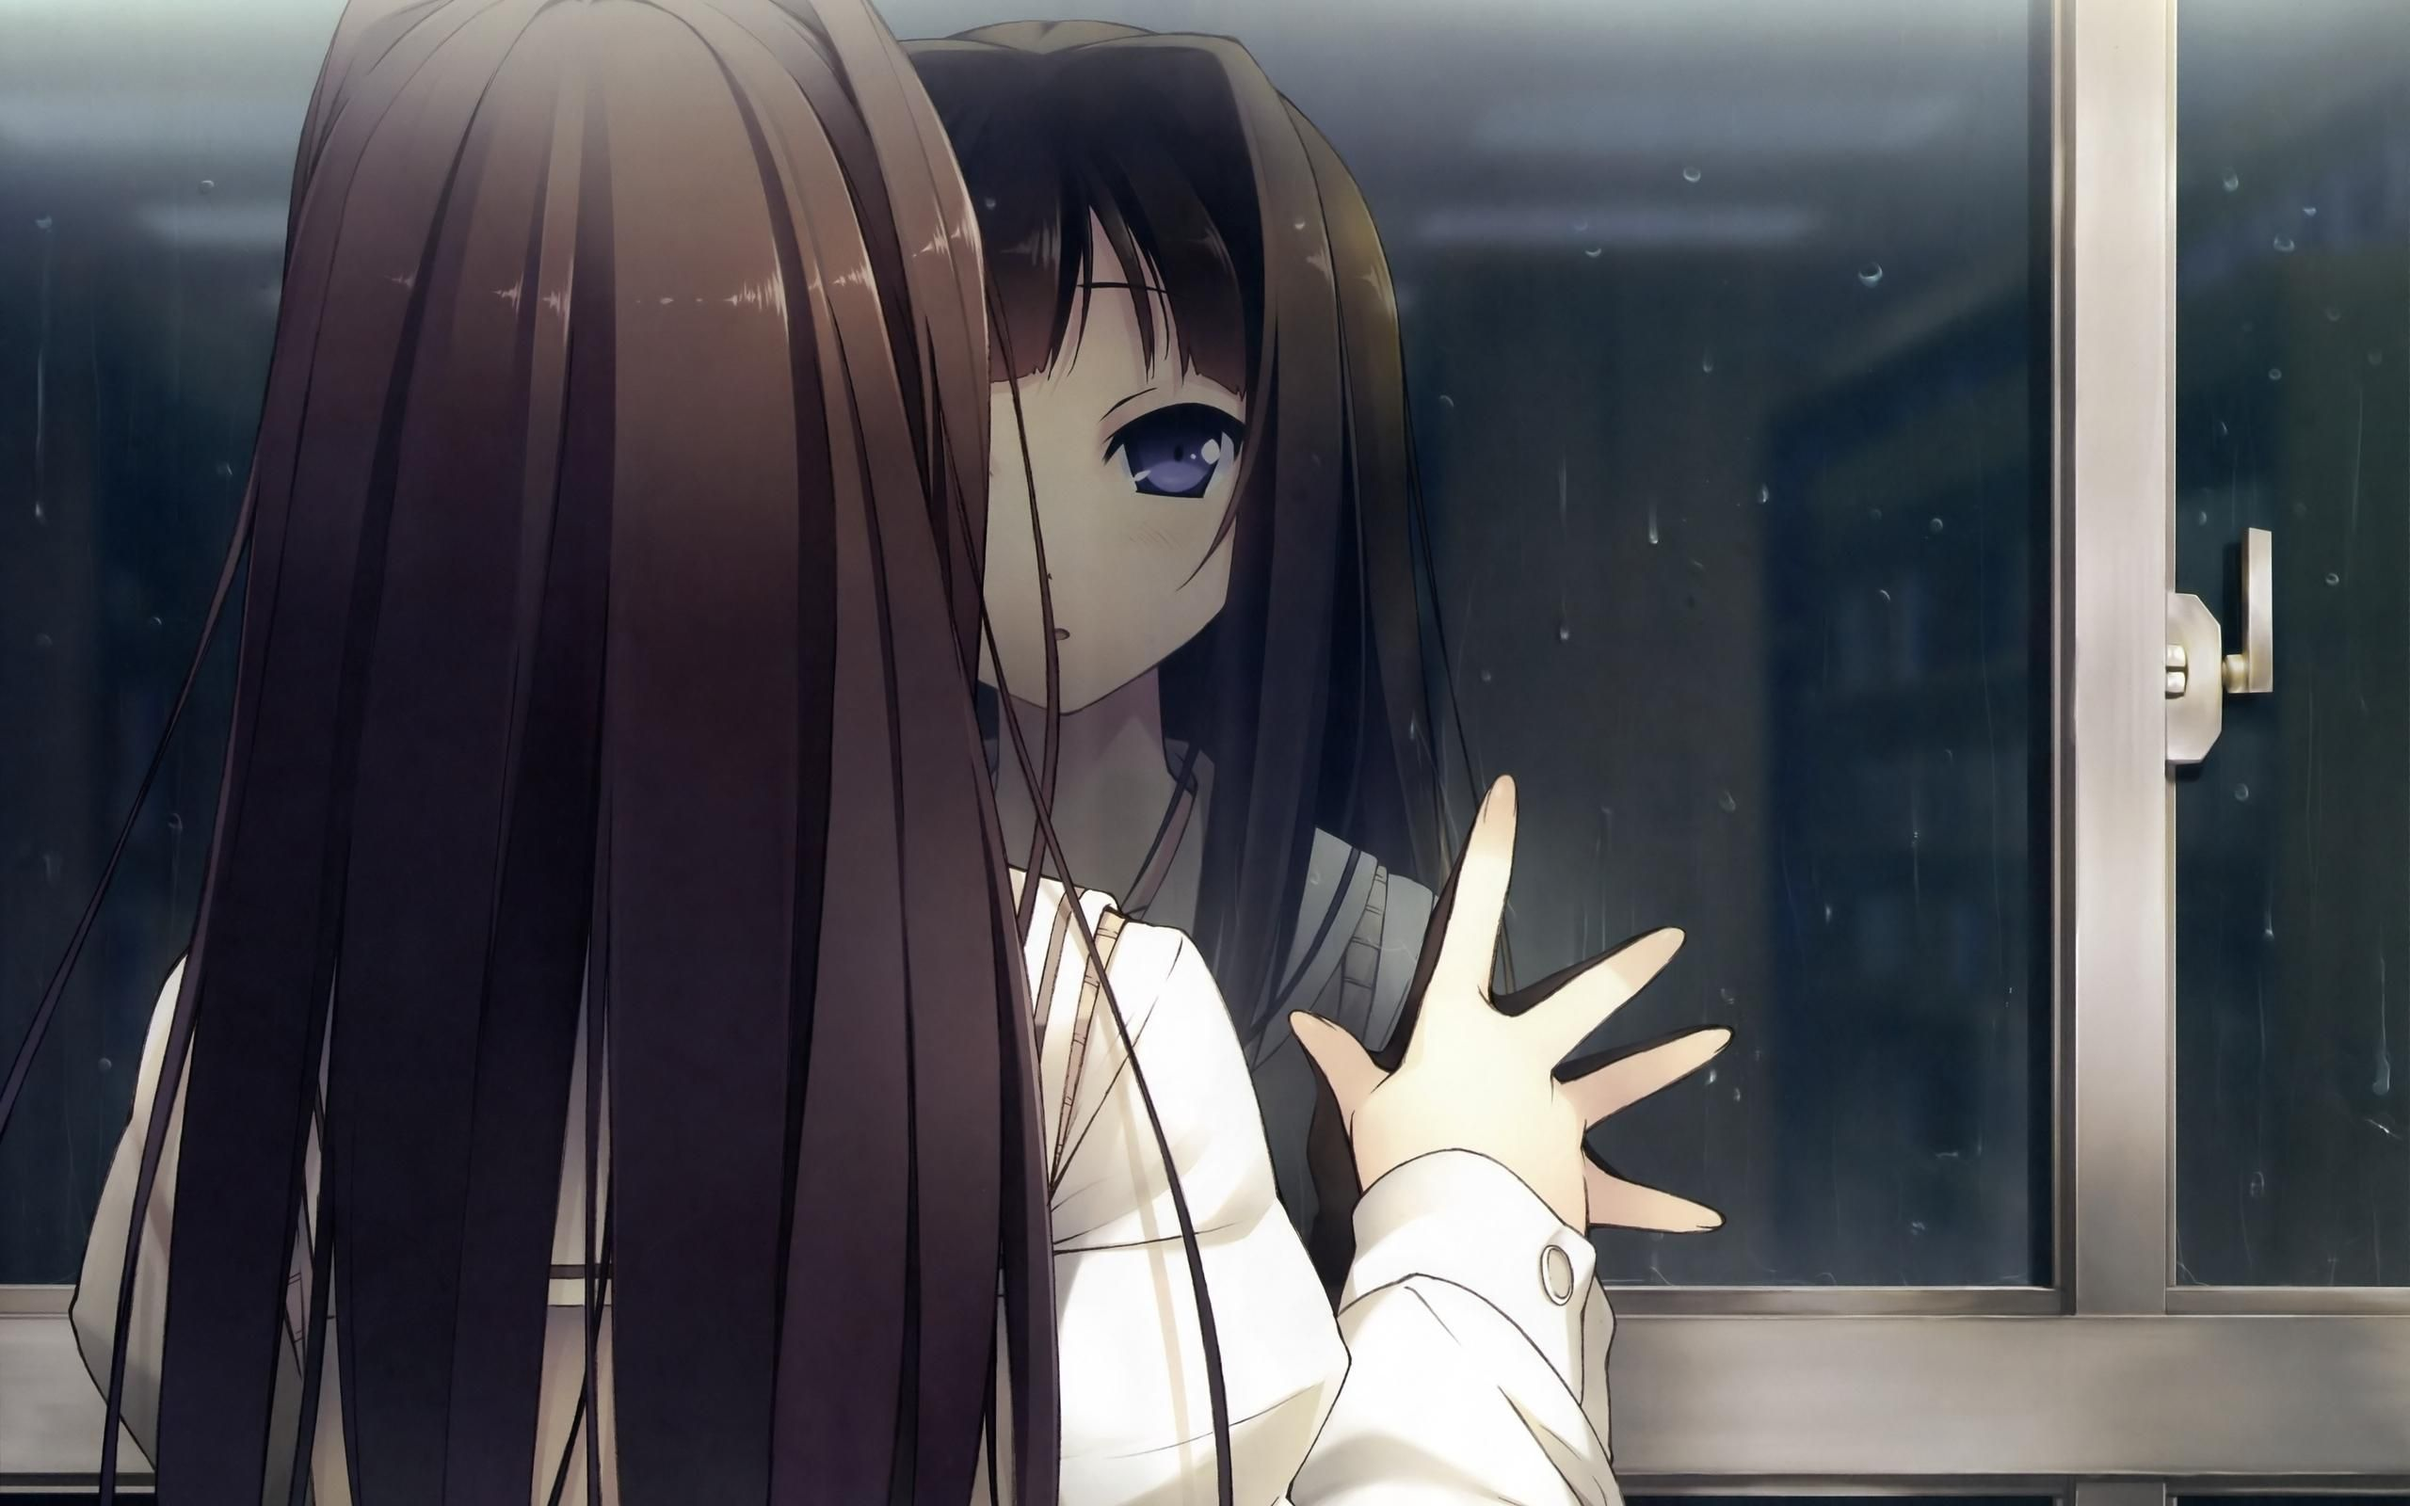
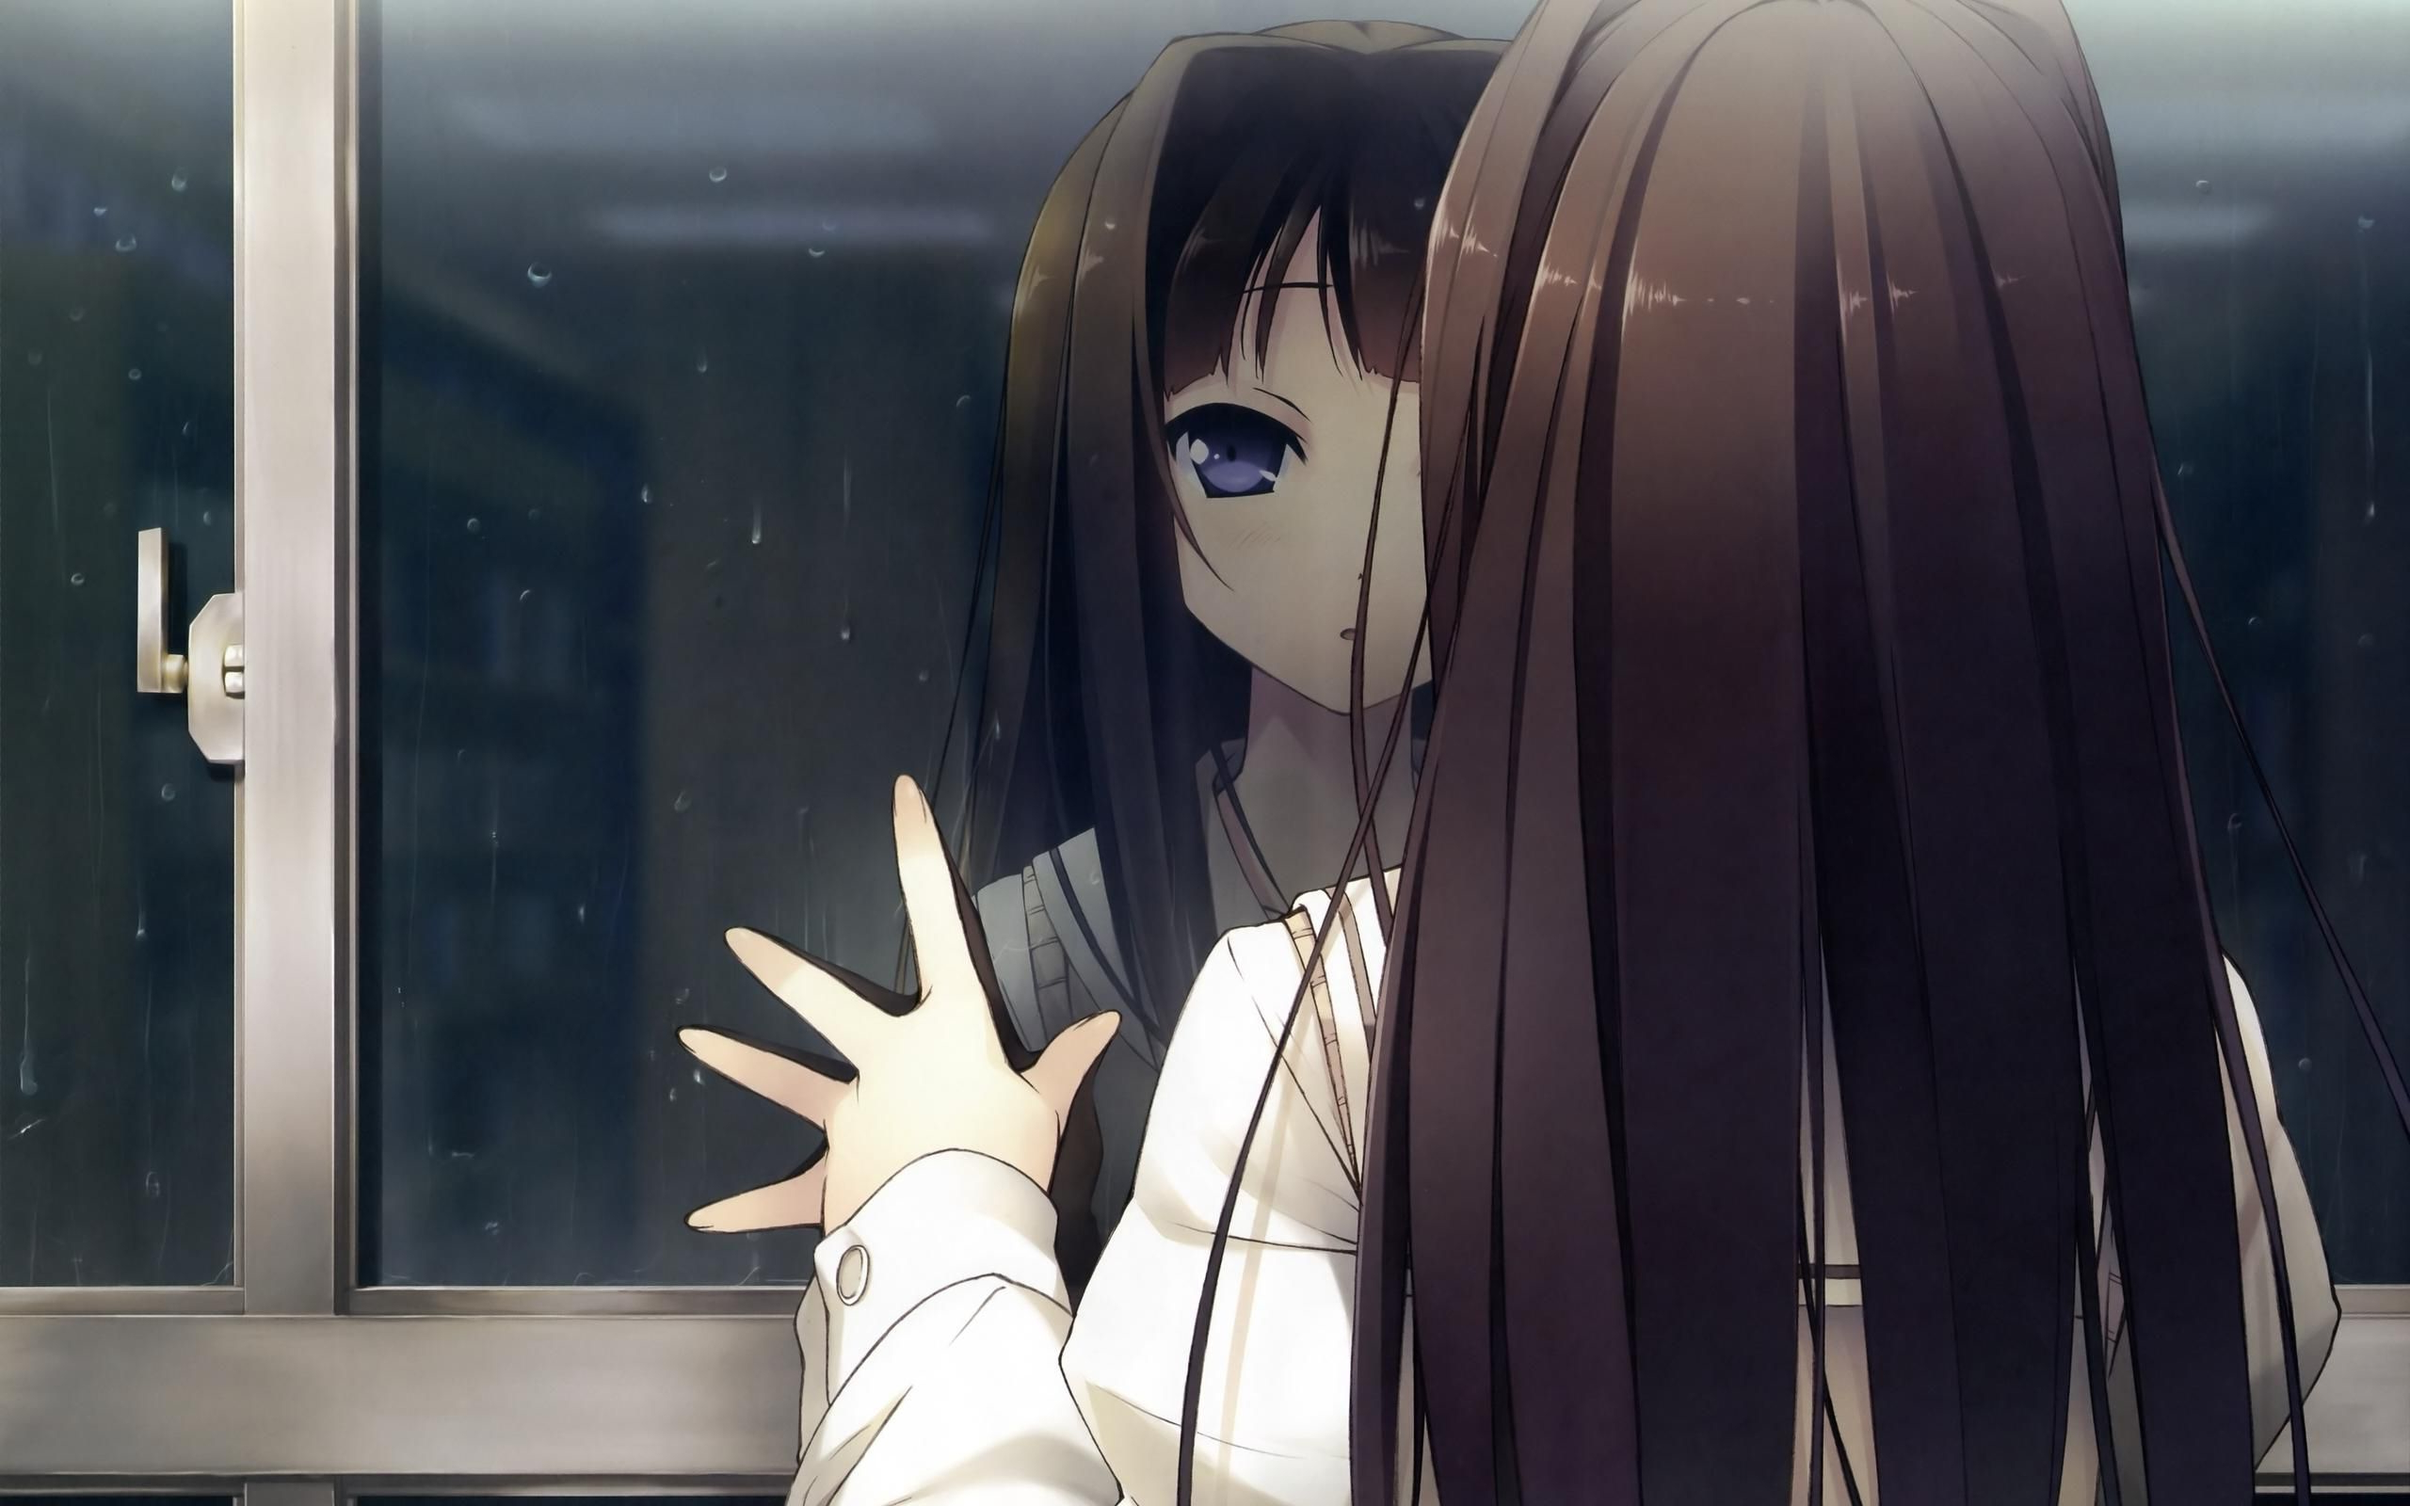
Final Change

diff --git a/Resource/css/style.css b/Resource/css/style.css
@@ -115,7 +115,7 @@ a {
 
 .hero-box h2 {
   font-family: "Poppins", sans-serif;
-  text-align: right;
+  text-align: left;
   font-weight: 900;
   font-size: 200%;
   padding: 0 !important;
@@ -243,7 +243,7 @@ a {
 header {
   height: 100vh;
   background-image: linear-gradient(
-      to right,
+      to left,
       rgba(0, 0, 0, 0),
       rgba(0, 0, 0, 0),
       rgba(0, 0, 0, 0),
@@ -260,10 +260,9 @@ header {
 
 .hero-box {
   width: 50%;
-  text-align: right;
-  float: right;
+  float: left;
   font-family: "Poppins", sans-serif;
-  padding-right: 3%;
+  padding-left: 3%;
   margin: 0;
   position: relative;
   top: 40%;
@@ -275,28 +274,26 @@ header {
 .hero-box p {
   float: right;
   margin-top: -20px;
-  margin-left: 11%;
+  margin-right: 11%;
 }
 
 .btn-discover:link,
 .btn-discover:visited {
-  display: block;
-  position: relative;
-  left: 30%;
+  display: inline-block;
   background-color: #00ff19;
   font-family: "Poppins", sans-serif;
   font-weight: 900;
   padding: 15px 30px;
-  margin-top: 25px;
   border-radius: 200px;
+  margin-top: 25px;
   text-decoration: none;
   color: rgb(12, 12, 16);
   text-align: center;
   -webkit-transition: all 0.3s;
   transition: all 0.3s;
-  float: right;
+  float: left;
   -webkit-transform-origin: top left;
-  transform-origin: top right;
+  transform-origin: top left;
 }
 
 .btn-discover:hover,
